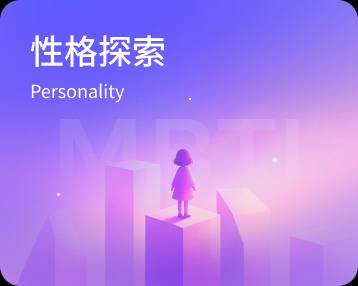
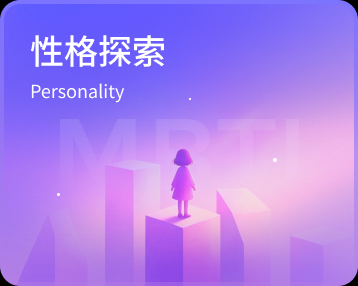
personality menu + 主壳: 接入 Figma 返回图标 / 修对齐 / 更新性格探索卡视觉
- v1/index.html + styles.css: 移除 .per-back 浮层 (灰色圆形 + 占位返回), 子页自带返回
- v1/app.js: 监听子页 personality-back / answer-back postMessage 回首页
- personality/index.html + style.css: menu 顶栏左上加 .m-back (Figma 4350:1804 SVG, 80×68 命中区无底色)
- personality/assets/menu/card-{test,pick}-with-illo.png: 抹掉 PNG 烘焙文字, 文案只由 DOM <span> 渲染一份, 消除双层重叠
- personality/style.css: 右卡 .mp-card-bg top:-59px (Figma frame y=30 vs 36, 多偏 5px 让基线对齐)
- personality/style.css: .m-help 按 Figma 4666:3437 1:1 (圆环 ::before + 字框 5/-1/34×46 PingFang TC 34/46)
- personality/assets/home-card-personality.png: 替换为 Figma 4703:4093 新版
- v1/styles.css: .hcard-3-cover border-radius 28→20 (Figma 4703:4092 真值)

Changed region(s): [[0.9832, 0.1678, 1.0, 0.7273], [0.0307, 0.0, 0.5531, 0.028]]

diff --git a/v1/personality/style.css b/v1/personality/style.css
@@ -74,29 +74,51 @@ button{font:inherit;color:inherit;background:none;border:0;cursor:pointer}
 .scene-menu{
   background:linear-gradient(109.2deg,#D1E1FF 11.6%,#EDE9FF 103%);
 }
+/* 左上返回 — Figma 4350:1804 Group 152(80×68 命中区,SVG 内置箭头位) */
+.m-back{
+  position:absolute;left:0;top:1px;
+  width:80px;height:68px;
+  padding:0;background:transparent;border:0;
+  display:block;
+  z-index:20;
+  cursor:pointer;
+  transition:opacity var(--t-fast),transform var(--t-fast);
+}
+.m-back img{
+  display:block;width:80px;height:68px;
+  pointer-events:none;user-select:none;-webkit-user-drag:none;
+}
+.m-back:hover{opacity:.7}
+.m-back:active{transform:scale(.92)}
 .m-title{
   position:absolute;left:80px;top:12px;
   font-size:34px;font-weight:500;letter-spacing:1px;
   color:#3a444d;line-height:46px;
   z-index:10;
 }
-/* 右上 ? 帮助按钮 — Figma 4666:3437(44×44 圆环 + ? 居中) */
+/* 右上 ? 帮助按钮 — Figma 4666:3437 Group 298(圆环 1576/21 44×44 + 字框 1581/20 34×46) */
 .m-help{
   position:absolute;left:1576px;top:21px;
-  width:44px;height:44px;border-radius:50%;
-  border:4px solid #3f434d;
-  background:transparent;
-  padding:0;
-  display:flex;align-items:center;justify-content:center;
+  width:44px;height:44px;
+  background:transparent;border:0;padding:0;
   z-index:20;
   cursor:pointer;
 }
+.m-help::before{
+  content:"";
+  position:absolute;inset:0;
+  border-radius:50%;
+  border:2px solid #3f434d;
+  pointer-events:none;
+}
 .m-help span{
-  font-family:"PingFang SC","PingFang TC","Noto Sans SC",sans-serif;
-  font-size:30px;font-weight:600;line-height:1;
+  position:absolute;left:5px;top:-1px;
+  width:34px;height:46px;
+  font-family:"PingFang TC","PingFang SC","Noto Sans SC",sans-serif;
+  font-size:34px;font-weight:600;line-height:46px;
   color:#3f434d;
+  text-align:center;
   display:block;
-  transform:translateY(-1px);
 }
 
 /* 两张大卡 + illo 合成图,卡身 725×238,illo 顶部溢出到 y=36(向上 53) */
@@ -121,6 +143,8 @@ button{font:inherit;color:inherit;background:none;border:0;cursor:pointer}
   pointer-events:none;
   user-select:none;-webkit-user-drag:none;
 }
+/* 右卡 PNG 内 rect 顶端比左卡低 5px(Figma frame y=30 vs 36),需多偏移 5px 才能让两张卡身基线对齐 */
+.mp-card-pick .mp-card-bg{top:-59px}
 .mp-card-text{
   position:absolute;
   font-family:var(--font-cn);

diff --git a/v1/styles.css b/v1/styles.css
@@ -111,18 +111,6 @@ img{display:block;user-select:none;-webkit-user-drag:none}
 /* 性格认知 personality —— 集成 v1/personality 子项目 */
 .scene-personality{background:#0a0d12;overflow:hidden}
 .per-frame{position:absolute;inset:0;width:100%;height:100%;border:0;background:#0a0d12}
-.per-back{
-  position:absolute;left:14px;top:14px;
-  width:60px;height:60px;
-  border:0;border-radius:50%;
-  background:rgba(0,0,0,.45);
-  display:grid;place-items:center;
-  color:#fff;cursor:pointer;
-  z-index:5;
-  transition:background var(--t-fast),transform var(--t-fast);
-}
-.per-back:hover{background:rgba(0,0,0,.65)}
-.per-back:active{transform:scale(.92)}
 .scene[hidden]{display:none}
 .scene.is-entering{animation:sceneIn .42s cubic-bezier(.2,.7,.25,1) forwards}
 @keyframes sceneIn{
@@ -204,7 +192,7 @@ img{display:block;user-select:none;-webkit-user-drag:none}
 .scene-home .hcard-3-cover{
   position:absolute;left:827px;top:44px;
   width:358px;height:286px;
-  border-radius:28px;
+  border-radius:20px;
   pointer-events:none;
   z-index:2;
   user-select:none;

diff --git a/v1/index.html b/v1/index.html
@@ -172,9 +172,6 @@
   <!-- ============== 10. 性格认知 personality（集成 v1/personality 子项目，1640×348 同尺寸 iframe） ============== -->
   <section class="scene scene-personality" data-scene="personality" hidden>
     <iframe class="per-frame" id="perFrame" title="性格认知" src="about:blank" frameborder="0"></iframe>
-    <button type="button" class="per-back" data-go="home" aria-label="返回首页">
-      <svg viewBox="0 0 12 22" width="10" height="18"><path d="M11 1 L1 11 L11 21" fill="none" stroke="currentColor" stroke-width="2.5" stroke-linecap="round" stroke-linejoin="round"/></svg>
-    </button>
   </section>
 
   <!-- 顶部 toast -->

diff --git a/v1/personality/index.html b/v1/personality/index.html
@@ -16,6 +16,9 @@
 
   <!-- ============== menu 入口页(对齐 Figma 4350:1744) ============== -->
   <section class="scene scene-menu" data-scene="menu">
+    <button type="button" class="m-back" id="menuBack" aria-label="返回">
+      <img src="assets/menu/back.svg" alt="" draggable="false">
+    </button>
     <h1 class="m-title">性格探索</h1>
     <button type="button" class="m-help" id="menuHelp" aria-label="帮助"><span>？</span></button>
 

diff --git a/v1/app.js b/v1/app.js
@@ -168,6 +168,15 @@ function onSceneEnter(name){
   }
 }
 
+// ---------- 子页 iframe 回首页消息 ----------
+addEventListener("message", (e) => {
+  const t = e.data && e.data.type;
+  if(t === "personality-back" || t === "answer-back"){
+    state.cameFrom = null;
+    setScene("home");
+  }
+});
+
 // ---------- 启动 ----------
 function init(){
   bindEvents();
